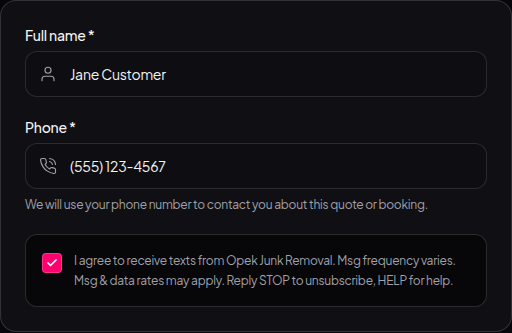
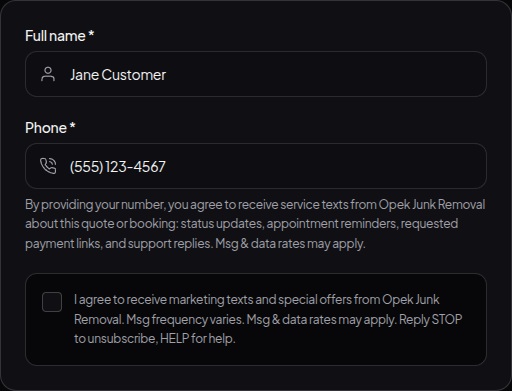
Fix SMS opt-in language to match Twilio service vs marketing use cases.
Make service-message consent list status updates, reminders, payment links, and support; keep marketing as a separate unchecked checkbox with explicit offer language.

diff --git a/components/SmsConsentPage.tsx b/components/SmsConsentPage.tsx
@@ -10,7 +10,7 @@ import { InputUserIcon, InputPhoneIcon } from './icons/ServiceIcons';
  * Shows the same SMS opt-in presented on /quote and /booking forms.
  */
 export const SmsConsentPage: React.FC = () => {
-  const [checked, setChecked] = useState(true);
+  const [checked, setChecked] = useState(false);
 
   return (
     <div className="home-dark min-h-[calc(100vh-var(--site-header-height))] bg-[var(--bg)] text-[var(--text)]">
@@ -47,16 +47,18 @@ export const SmsConsentPage: React.FC = () => {
               Customers enter their name and phone number when requesting a quote or booking.
             </li>
             <li>
-              A transactional notice explains we will use their phone number to contact them about
-              that quote or booking.
+              <strong>Service texts (informational):</strong> Submitting a phone number includes
+              express consent for service messages about that quote or booking — status updates,
+              appointment reminders, requested payment links, and support replies.
             </li>
             <li>
-              An optional checkbox lets customers agree to receive texts from Opek Junk Removal.
-              Consent is not required to get a quote or complete a booking.
+              <strong>Marketing texts (separate opt-in):</strong> An optional, unchecked-by-default
+              checkbox is required before we send marketing texts or special offers. Marketing
+              consent is not required to get a quote or complete a booking.
             </li>
             <li>
               Message frequency varies. Msg &amp; data rates may apply. Reply <strong>STOP</strong>{' '}
-              to unsubscribe, <strong>HELP</strong> for help.
+              to unsubscribe from marketing, <strong>HELP</strong> for help.
             </li>
           </ul>
         </section>
@@ -132,9 +134,20 @@ export const SmsConsentPage: React.FC = () => {
 
         <section className="space-y-3">
           <h2 className="text-lg font-bold text-[var(--text)]">Consent language (exact text)</h2>
-          <p className="text-sm text-[var(--text-muted)] leading-relaxed border border-white/10 rounded-xl p-4 bg-[var(--surface)]">
-            {SMS_MARKETING_CONSENT_TEXT}
-          </p>
+          <div className="space-y-3">
+            <div>
+              <p className="text-xs font-semibold text-[var(--text)] mb-1.5">Service / informational</p>
+              <p className="text-sm text-[var(--text-muted)] leading-relaxed border border-white/10 rounded-xl p-4 bg-[var(--surface)]">
+                {SMS_TRANSACTIONAL_NOTICE}
+              </p>
+            </div>
+            <div>
+              <p className="text-xs font-semibold text-[var(--text)] mb-1.5">Marketing (optional checkbox)</p>
+              <p className="text-sm text-[var(--text-muted)] leading-relaxed border border-white/10 rounded-xl p-4 bg-[var(--surface)]">
+                {SMS_MARKETING_CONSENT_TEXT}
+              </p>
+            </div>
+          </div>
         </section>
 
         <section className="space-y-3">

diff --git a/components/PrivacyPolicyPage.tsx b/components/PrivacyPolicyPage.tsx
@@ -128,11 +128,11 @@ export const PrivacyPolicyPage: React.FC = () => {
             <li><strong>Phone calls</strong>, including prerecorded or artificial voice messages where permitted by law</li>
           </ul>
           <p className="mb-4">
-            <strong>Transactional SMS:</strong> Submitting your phone number on a quote or booking form authorizes texts about that request. We disclose:{' '}
-            <em>&ldquo;{SMS_TRANSACTIONAL_NOTICE}&rdquo;</em> These may include customer-requested payment links, job status notifications, appointment reminders, scheduling confirmations, and support related to your quote or booking.
+            <strong>Transactional SMS:</strong> Submitting your phone number on a quote or booking form authorizes service texts about that request. We disclose:{' '}
+            <em>&ldquo;{SMS_TRANSACTIONAL_NOTICE}&rdquo;</em>
           </p>
           <p className="mb-4">
-            <strong>Marketing SMS (optional):</strong> We send marketing or promotional texts only if you check the optional consent box on our quote or booking forms. Consent is not required to get a quote or complete a booking. Exact checkbox language:{' '}
+            <strong>Marketing SMS (optional, separate opt-in):</strong> We send marketing or promotional texts only if you check the optional consent box on our quote or booking forms. Consent is not required to get a quote or complete a booking. Exact checkbox language:{' '}
             <em>&ldquo;{SMS_MARKETING_CONSENT_TEXT}&rdquo;</em> See our{' '}
             <a href="/sms-consent" className="text-brand font-semibold hover:underline">SMS opt-in consent</a>{' '}
             page for a live example of this disclosure.

diff --git a/components/TermsOfServicePage.tsx b/components/TermsOfServicePage.tsx
@@ -42,10 +42,10 @@ export const TermsOfServicePage: React.FC = () => {
           </p>
           <p className="mb-4">
             <strong>Transactional texts:</strong> By submitting your phone number on a quote or booking form, you agree we may text you about that request. On those forms we disclose:{' '}
-            <em>&ldquo;{SMS_TRANSACTIONAL_NOTICE}&rdquo;</em> Transactional messages may include customer-requested payment links, job status notifications, appointment reminders, scheduling confirmations, quote follow-ups, and two-way support about your request.
+            <em>&ldquo;{SMS_TRANSACTIONAL_NOTICE}&rdquo;</em>
           </p>
           <p className="mb-4">
-            <strong>Marketing texts (optional):</strong> Marketing or promotional texts are sent only if you opt in via the optional checkbox on our quote and booking forms. Consent is <strong>not required</strong> to receive a quote or complete a booking. The checkbox uses this exact language:{' '}
+            <strong>Marketing texts (optional, separate consent):</strong> Marketing or promotional texts are sent only if you opt in via the optional checkbox on our quote and booking forms. Consent is <strong>not required</strong> to receive a quote or complete a booking. The checkbox uses this exact language:{' '}
             <em>&ldquo;{SMS_MARKETING_CONSENT_TEXT}&rdquo;</em>
           </p>
           <div className="bg-brand/10 border border-brand/25 rounded-xl p-5 mb-4 space-y-2 text-sm">

diff --git a/lib/customerConsent.ts b/lib/customerConsent.ts
@@ -1,8 +1,8 @@
 export const SMS_MARKETING_CONSENT_TEXT =
-  'I agree to receive texts from Opek Junk Removal. Msg frequency varies. Msg & data rates may apply. Reply STOP to unsubscribe, HELP for help.';
+  'I agree to receive marketing texts and special offers from Opek Junk Removal. Msg frequency varies. Msg & data rates may apply. Reply STOP to unsubscribe, HELP for help.';
 
 export const SMS_TRANSACTIONAL_NOTICE =
-  'We will use your phone number to contact you about this quote or booking.';
+  'By providing your number, you agree to receive service texts from Opek Junk Removal about this quote or booking: status updates, appointment reminders, requested payment links, and support replies. Msg & data rates may apply.';
 
 export interface CustomerInfoPayload {
   name: string;
